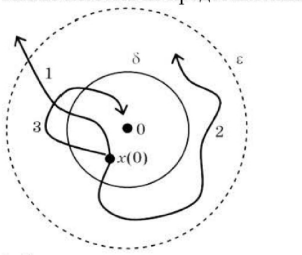
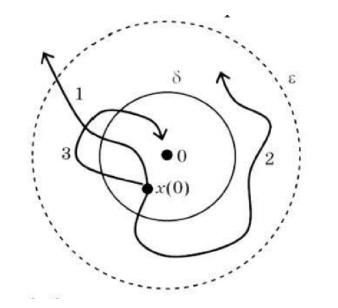
Обновление теста

diff --git a/src/data/questions.js b/src/data/questions.js
@@ -84,6 +84,7 @@ export const IMAGE_PATHS = {
   nelin3: 'images/nelin3.png',
   nelin4: 'images/nelin4.png',
   nelin5: 'images/nelin5.png',
+  tau_stable_system: 'images/tau_stable_system.png',
 };
 // src/data/tauQuestions.js
 
@@ -1634,7 +1635,7 @@ export const tauQuestions = [
   {
     id: 'tau-133',
     text: 'Какая система из представленных на рисунке является неустойчивой?',
-    imageKey: 'tau_unstable_system',
+    imageKey: 'tau_stable_system',
     options: ['1', '3', '2'],
     correct: [0],
     type: 'single'